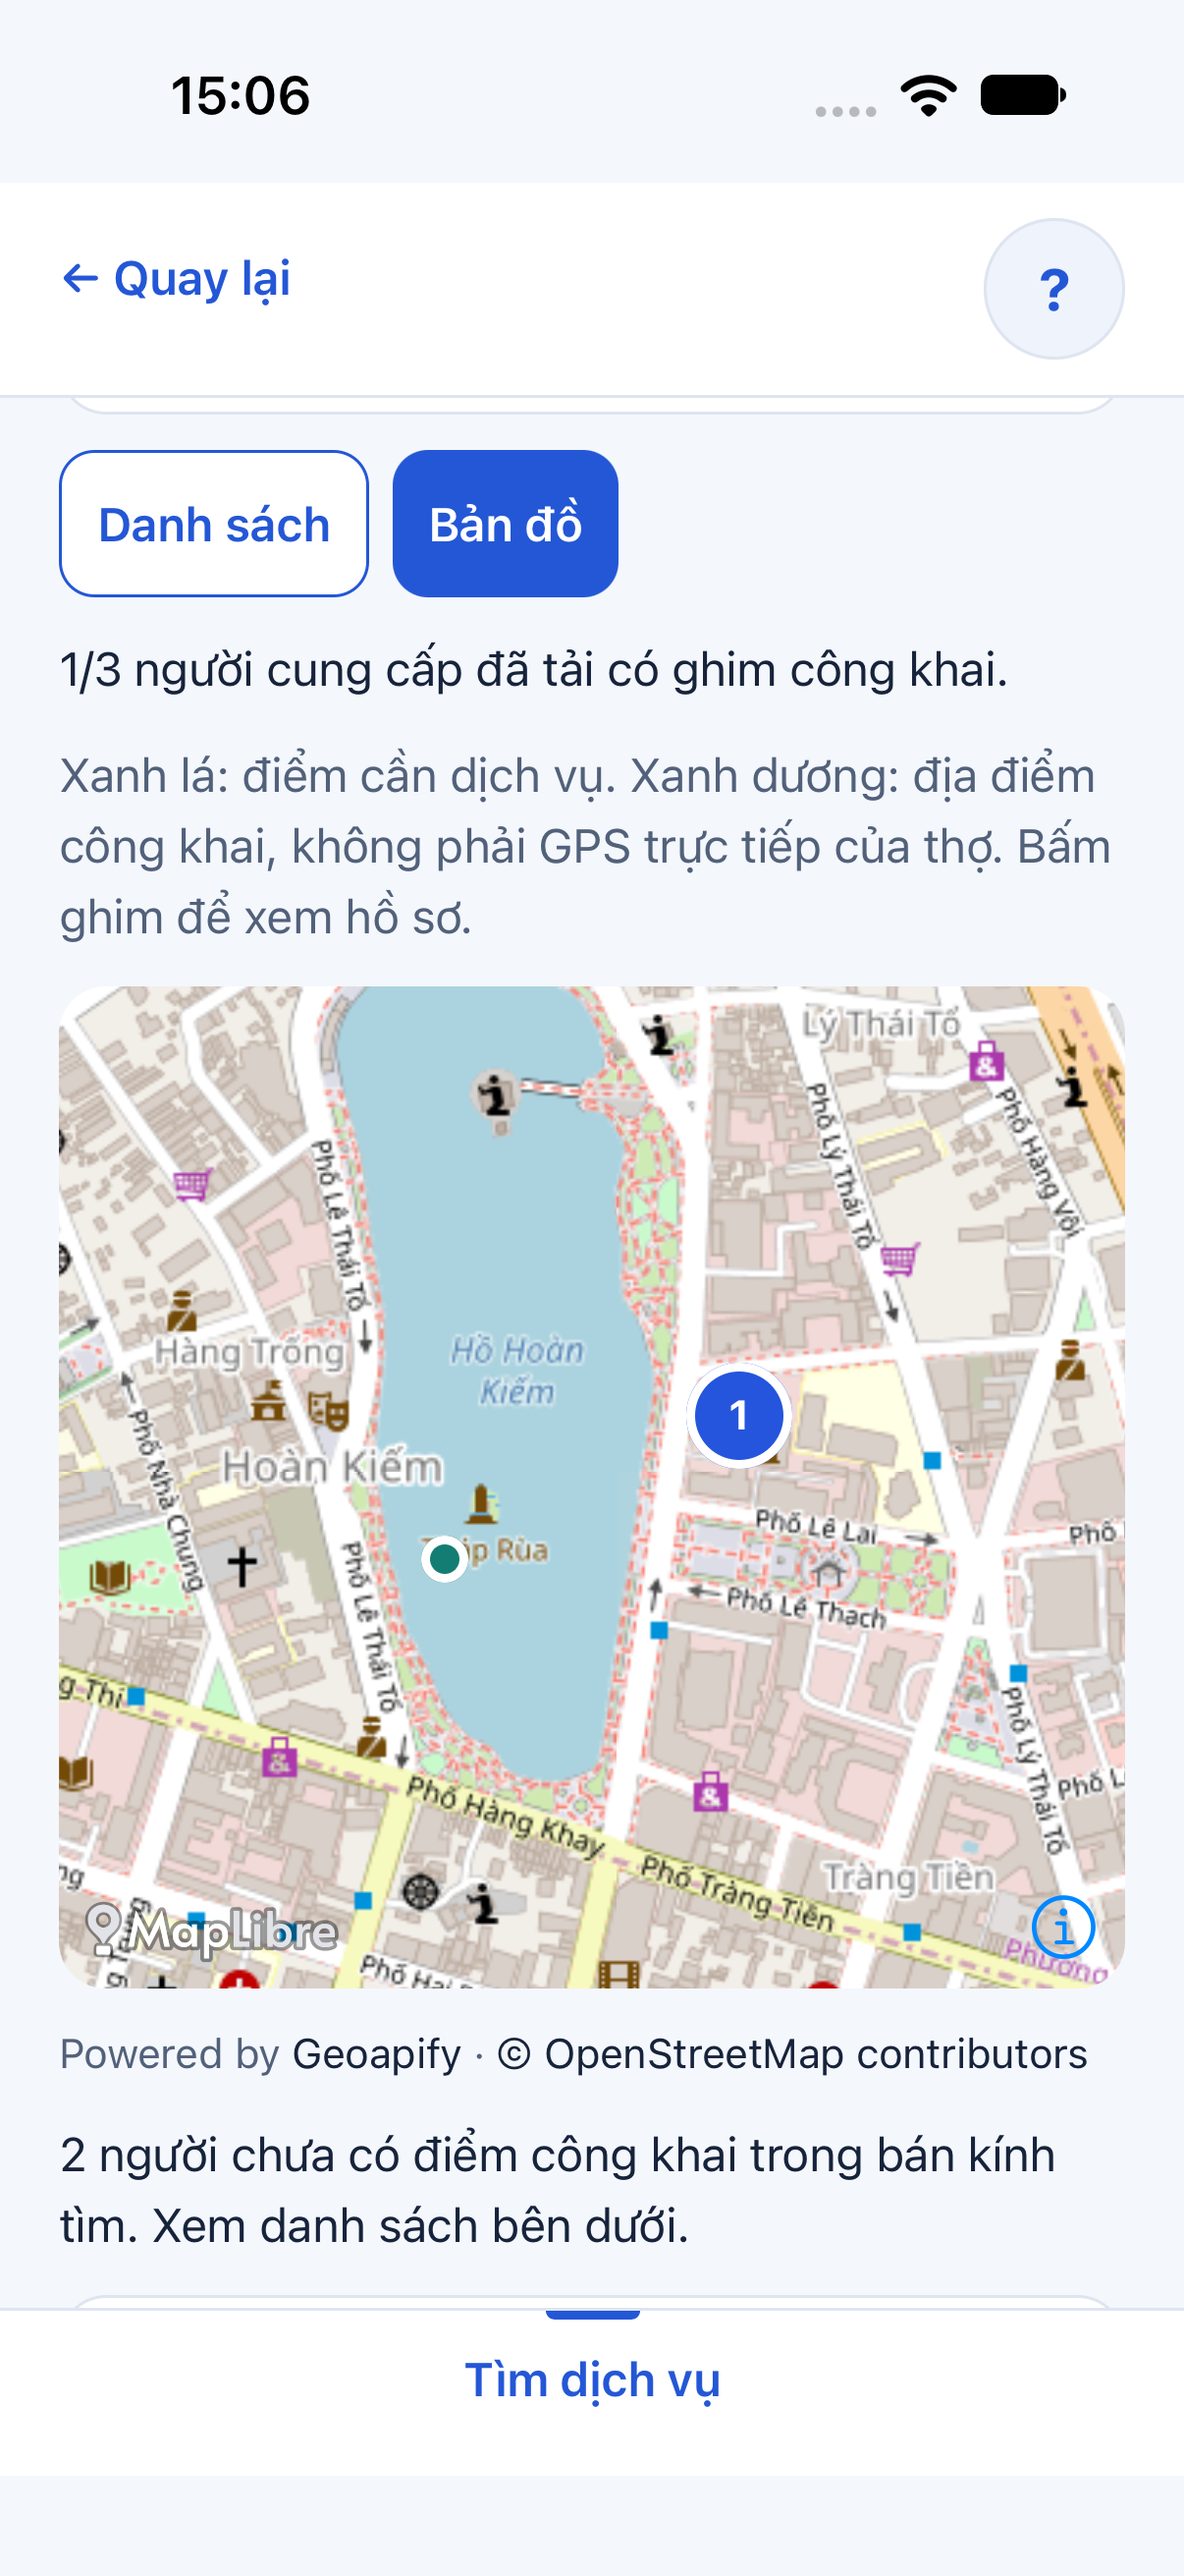
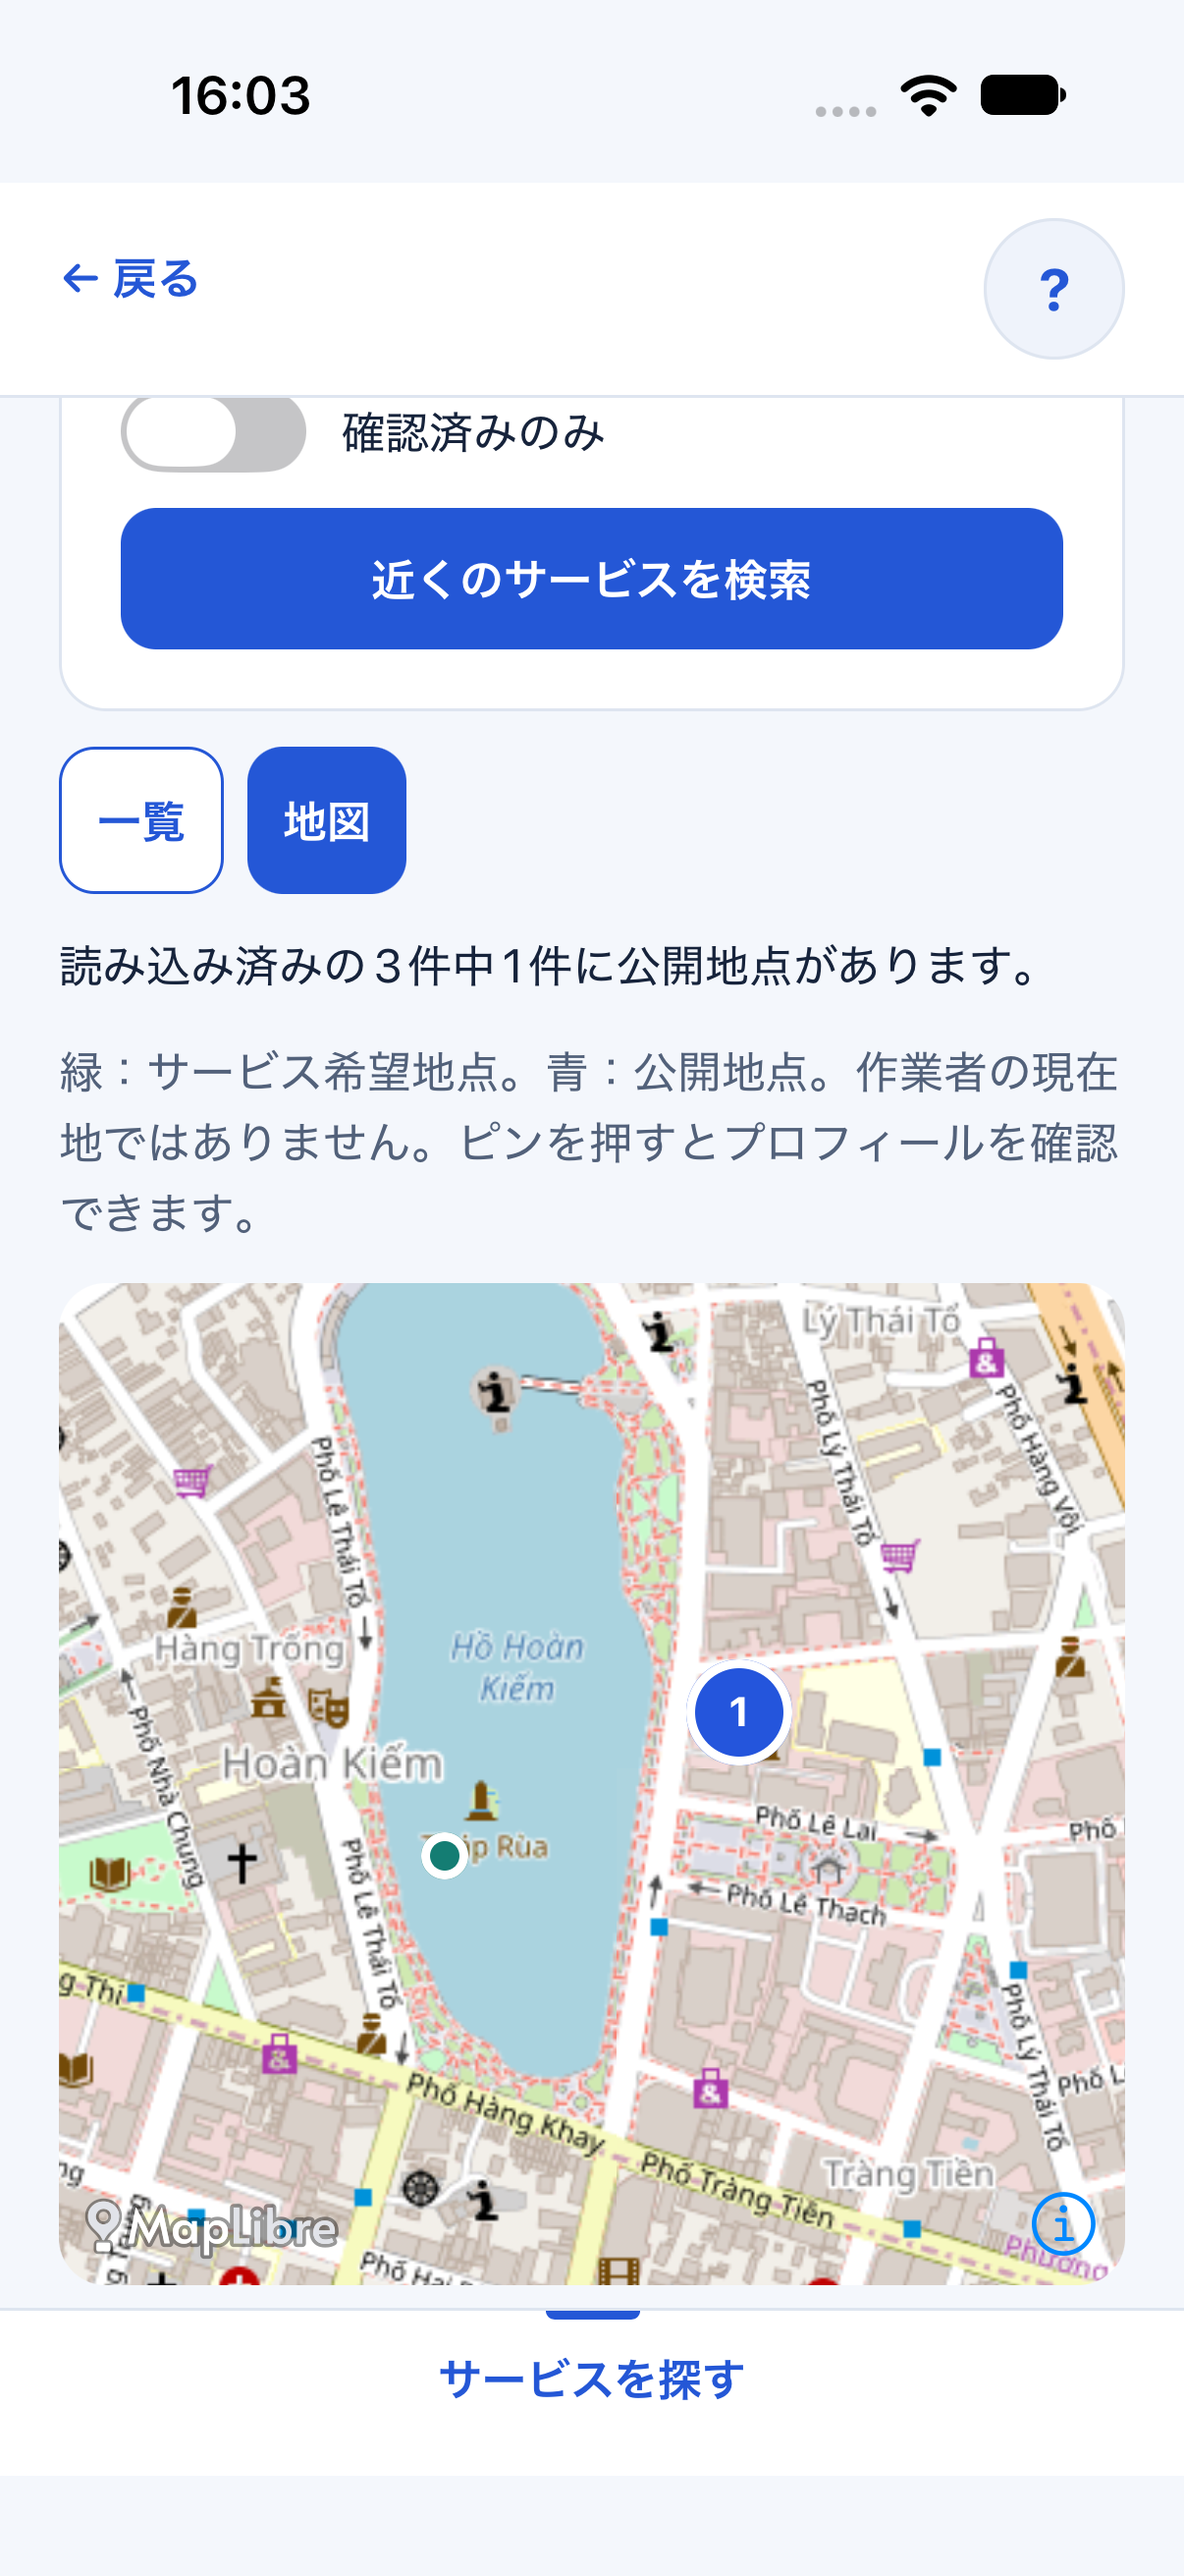
docs: record MAP-02 verification and refreshed iOS captures [skip ci]

diff --git a/docs/ke-hoach-trien-khai/bao-cao/B03-02-ban-do-ket-qua-tim-kiem.md b/docs/ke-hoach-trien-khai/bao-cao/B03-02-ban-do-ket-qua-tim-kiem.md
@@ -12,7 +12,7 @@ Nếu nhiều người cùng tọa độ, ghim ghi số người, chẳng hạn 
 
 ## Ảnh app chạy thật
 
-Ảnh ngày 07/10/2026 dùng dữ liệu DEMO, API/PostGIS cục bộ và bản đồ nền Geoapify thật. Web là Chromium; Android là emulator API 36; iOS là iPhone 18 Pro simulator iOS 27. Không phải ảnh thiết bị thật hoặc nghiệm thu UAT.
+Ảnh ngày 07/10/2026 dùng dữ liệu DEMO, API/PostGIS cục bộ và bản đồ nền Geoapify thật. Web là Chromium; Android là emulator API 36; iOS là iPhone 18 Pro simulator iOS 27. Ảnh iOS chụp lại lúc 16:03 JST với giao diện tiếng Nhật; tên và mô tả DEMO do người cung cấp nhập vẫn giữ tiếng Việt. Không phải ảnh thiết bị thật hoặc nghiệm thu UAT.
 
 | Web: bản đồ và ghim được chọn | Web: thẻ địa điểm và danh sách |
 |---|---|
@@ -89,21 +89,21 @@ Câu hỏi học code: Vì sao trả `null` mà không bỏ luôn hồ sơ? Vì 
 
 Kiểm thử tự động đã kiểm dữ liệu riêng/công khai, điểm gần nhất, ngoài bán kính, chuyển trạng thái public và lưu trữ điểm. Kiểm UI đã kiểm ghim trùng mở từng hồ sơ, giữ người không có điểm trong danh sách, đổi tọa độ xóa cũ, lỗi bản đồ và thử lại. Web dùng API/DB test thật, chỉ nền tile được giả lập trong E2E; lượt ảnh DEMO kiểm nền Geoapify thật riêng.
 
-Web, iOS simulator và Android emulator đã đi từ tìm → ghim → thẻ → hồ sơ. Android được kiểm lại thành công lúc 15:54 JST sau khi WebView của emulator tự cập nhật và đóng app ở lượt trước; lượt cuối còn đi qua nhập địa chỉ và chọn gợi ý Geoapify thật. Chưa nghiệm thu trên điện thoại thật hoặc UAT của chủ dự án. Gom ghim hiện chỉ xử lý tọa độ trùng tuyệt đối, chưa có gom cụm theo mức zoom.
+Web, iOS simulator và Android emulator đã đi từ tìm → ghim → thẻ → hồ sơ. iOS được kiểm lại lúc 16:03 JST sau bản sửa camera `8fdc9d4`: chuyển Danh sách/Bản đồ, chọn ghim và mở hồ sơ không còn cảnh báo React. Bài hồi quy camera kiểm Promise từ SDK không bị trả về làm hàm dọn dẹp của `useEffect`. Android được kiểm lại thành công lúc 15:54 JST sau khi WebView của emulator tự cập nhật và đóng app ở lượt trước; lượt cuối còn đi qua nhập địa chỉ và chọn gợi ý Geoapify thật. Chưa nghiệm thu trên điện thoại thật hoặc UAT của chủ dự án. Gom ghim hiện chỉ xử lý tọa độ trùng tuyệt đối, chưa có gom cụm theo mức zoom.
 
 <details>
 <summary>Lệnh, test và bằng chứng kỹ thuật</summary>
 
 | Kiểm tra | Kết quả ngày 07/10/2026 | Bằng chứng |
 |---|---|---|
-| Typecheck, lint | PASS | `.local/map-02/typecheck-final.log`, `lint-final.log` |
-| Mobile unit/UI + coverage | 152 test, 32 suite PASS; core lines 100%, branches 92.56%; app lines 82.81%, branches 76.76%; đạt gate repo | `.local/map-02/mobile-coverage-final.log` |
+| Typecheck, lint | PASS | `.local/map-02/typecheck-camera.log`, `lint-camera.log` |
+| Mobile unit/UI + coverage | 153 test, 33 suite PASS; core lines 100%, branches 92.56%; app lines 82.81%, branches 76.76%; đạt gate repo | `.local/map-02/mobile-camera-coverage.log`; [ResultsMap.native.test.tsx](../../../apps/mobile/src/features/search/components/ResultsMap.native.test.tsx) |
 | API unit/integration + PostGIS coverage | 68 test PASS; core lines 100%, branches 92.17%; app lines 90.98%, branches 88.20% | `.local/map-02/coverage.log`; [partners.test.ts](../../../services/api/test/integration/partners.test.ts) |
-| Web E2E MAP-02 | 1 hành trình PASS | [search-map.spec.mjs](../../../tests/e2e/web/search-map.spec.mjs), `.local/map-02/web.log` |
+| Web E2E MAP-02 | 1 hành trình PASS | [search-map.spec.mjs](../../../tests/e2e/web/search-map.spec.mjs), `.local/map-02/web-final.log` |
 | Web live + Geoapify | PASS ghim, thẻ, hồ sơ | `.local/map-02/live-web.log`, ảnh trên |
-| iOS simulator / Android emulator | Ghi đúng phạm vi ở đoạn trên; không thay thiết bị thật | Ảnh và thao tác Mobile MCP; Maestro Android không khởi động được driver, không tính PASS Maestro |
+| iOS simulator / Android emulator | Ghi đúng phạm vi ở đoạn trên; không thay thiết bị thật | Ảnh và thao tác Mobile MCP; Maestro Android không khởi động được driver; lượt Maestro iOS cuối dừng ở đối chiếu câu tiếng Việt khi app đang tiếng Nhật. Không tính PASS toàn hành trình Maestro; thao tác chọn ghim/hồ sơ kiểm lại bằng Mobile MCP |
 | MAP-01 đã push | `4dc7600`, cả ba job CI PASS | [CI MAP-01](https://github.com/anhthaingd/dich-vu-quanh-ban/actions/runs/37577265358) |
-| MAP-02 Git/CI | Chưa push tại thời điểm viết báo cáo; cập nhật sau khi xác nhận remote | Không dùng CI MAP-01 để kết luận MAP-02 |
+| MAP-02 Git/CI | Đã push `a6d4735` và sửa camera `8fdc9d4`; cả 3 job PASS: static/mobile/build, API/PostGIS, web E2E | [CI MAP-02](https://github.com/anhthaingd/dich-vu-quanh-ban/actions/runs/37584532165) kiểm code `8fdc9d45a95442b0145027411e13d30c739ed81f`; lần `37584240737` trước bị hủy khi push bản sửa. Bản cập nhật báo cáo/ảnh sau đó không đổi code và dùng `[skip ci]`. |
 
 Các log `.local` được bỏ qua bởi Git. Chạy lại bằng `npm run typecheck`, `npm run lint`, `npm run test:coverage` và `npx playwright test --config tests/e2e/web/playwright.config.mjs search-map.spec.mjs`. E2E tạo dữ liệu cô lập; không sửa hồ sơ DEMO sẵn có.
 

diff --git a/docs/ke-hoach-trien-khai/README.md b/docs/ke-hoach-trien-khai/README.md
@@ -1,7 +1,7 @@
 # Kế hoạch triển khai và học code
 
 
-**Cập nhật 07/10:** MAP-01 đã push `4dc7600`, [CI đạt cả 3 job](https://github.com/anhthaingd/dich-vu-quanh-ban/actions/runs/37577265358). **MAP-02 đã triển khai** theo quyết định chỉ ghim địa điểm công khai; người chưa có điểm công khai vẫn hiện danh sách. [Báo cáo B03-02](bao-cao/B03-02-ban-do-ket-qua-tim-kiem.md) ghi kiểm thử/ảnh và trạng thái push riêng. Thứ tự P0-1 → MAP-01 → MAP-02 → P0-2 → P0-3. Các mốc chưa tích hợp bản đồ phía dưới là lịch sử, không thay trạng thái này.
+**Cập nhật 07/10:** MAP-01 đã push `4dc7600`, [CI đạt cả 3 job](https://github.com/anhthaingd/dich-vu-quanh-ban/actions/runs/37577265358). **MAP-02 đã push `a6d4735` và bản sửa camera `8fdc9d4`; [CI MAP-02](https://github.com/anhthaingd/dich-vu-quanh-ban/actions/runs/37584532165) đạt cả 3 job** theo quyết định chỉ ghim địa điểm công khai; người chưa có điểm công khai vẫn hiện danh sách. [Báo cáo B03-02](bao-cao/B03-02-ban-do-ket-qua-tim-kiem.md) ghi kiểm thử/ảnh và trạng thái push riêng. Thứ tự P0-1 → MAP-01 → MAP-02 → P0-2 → P0-3. Các mốc chưa tích hợp bản đồ phía dưới là lịch sử, không thay trạng thái này.
 DOC-082 · v1.0 · 01/10/2026 · DELIVERY-01. Mốc lập kế hoạch: `50d184a`; ưu tiên hiện hành: MAP-01 chọn địa điểm bằng địa chỉ/bản đồ trước P0-2, ngày 07/10/2026.
 
 Đây là điểm vào công việc cho các phiên Codex tiếp theo. Kế hoạch phân rã thiết kế sẵn có thành các lát triển khai có thể kiểm chứng; không thay SRS, hợp đồng API hoặc quyết định nghiệp vụ. Những nhiệm vụ chưa làm là kế hoạch, không phải phê duyệt nhà cung cấp, chi phí hay production.
@@ -37,7 +37,7 @@ Sơ đồ Mermaid nằm ngay trong từng file `.md`. Mở báo cáo bằng Mark
 | Thu hồi nhiều phiên và quay lại sau login | [B01-04/07 — bổ sung](bao-cao/B01-07-tiep-tuc-tai-khoan-va-thu-hoi-phien.md) | Dùng API hiện có, thử lại phần chưa xác nhận, quay lại ba màn tài khoản; đạt 124 mobile, 8 web và native Android/iOS; đã push `a823d0e`; [CI 37428334396](https://github.com/anhthaingd/dich-vu-quanh-ban/actions/runs/37428334396) đạt cả 3 jobs, chưa UAT |
 | Người cung cấp và tìm dịch vụ | [B02-03 / P0-1](bao-cao/B02-03-nguon-cung-va-tim-dich-vu.md) | Gói P0-1 DB/API/app; local/native; DEMO riêng; đã push `fe35564`, [CI](https://github.com/anhthaingd/dich-vu-quanh-ban/actions/runs/37566935703) đạt 3 jobs; chưa UAT; B02/B03 còn upload/map/xác minh/ranking |
 | Chọn địa điểm và bản đồ | [B03-01 / MAP-01](bao-cao/B03-01-chon-dia-diem-va-ban-do.md) | Bộ chọn 4 nơi; API/web/local; bản đồ thật Android emulator/iOS simulator. Remote CI MAP-01 đạt; chưa điện thoại thật hoặc UAT; chưa đóng toàn B03 |
-| Bản đồ kết quả tìm kiếm | [B03-02 / MAP-02](bao-cao/B03-02-ban-do-ket-qua-tim-kiem.md) | Ghim địa điểm public, ghim trùng, hồ sơ; giữ người không có ghim trong danh sách. 152 mobile, 68 API và web E2E đạt; xem báo cáo cho native và Git/CI. |
+| Bản đồ kết quả tìm kiếm | [B03-02 / MAP-02](bao-cao/B03-02-ban-do-ket-qua-tim-kiem.md) | Ghim địa điểm public, ghim trùng, hồ sơ; giữ người không có ghim trong danh sách. 153 mobile, 68 API và web E2E đạt; native Android/iOS đã kiểm; [CI MAP-02](https://github.com/anhthaingd/dich-vu-quanh-ban/actions/runs/37584532165) đạt cả 3 job tại `8fdc9d4`. Chưa UAT/thiết bị thật. |
 | Tài khoản email/mật khẩu | [B01-01](bao-cao/B01-01-email-mat-khau.md) | Đăng ký/đăng nhập, refresh/logout local; không đóng toàn bộ B01 |
 
 Báo cáo con tiếp theo dùng mã `Bxx-nn` hoặc `I18N-nn`; thêm vào bảng này và liên kết dòng checklist. Không sửa báo cáo cũ để biến kết quả của commit cũ thành bằng chứng cho commit mới. Nếu sửa báo cáo, giữ ngày/commit và ghi phần đính chính.

diff --git a/docs/ke-hoach-trien-khai/01-checklist.md b/docs/ke-hoach-trien-khai/01-checklist.md
@@ -1,7 +1,7 @@
 # Checklist chức năng và bằng chứng
 
 
-**Cập nhật 07/10:** MAP-01 đã push `4dc7600`, [CI đạt cả 3 job](https://github.com/anhthaingd/dich-vu-quanh-ban/actions/runs/37577265358). **MAP-02 đã triển khai** theo quyết định chỉ ghim địa điểm công khai; người chưa có điểm công khai vẫn hiện danh sách. [Báo cáo B03-02](bao-cao/B03-02-ban-do-ket-qua-tim-kiem.md) ghi kiểm thử/ảnh và trạng thái push riêng. Thứ tự P0-1 → MAP-01 → MAP-02 → P0-2 → P0-3. Các mốc chưa tích hợp bản đồ phía dưới là lịch sử, không thay trạng thái này.
+**Cập nhật 07/10:** MAP-01 đã push `4dc7600`, [CI đạt cả 3 job](https://github.com/anhthaingd/dich-vu-quanh-ban/actions/runs/37577265358). **MAP-02 đã push `a6d4735` và bản sửa camera `8fdc9d4`; [CI MAP-02](https://github.com/anhthaingd/dich-vu-quanh-ban/actions/runs/37584532165) đạt cả 3 job** theo quyết định chỉ ghim địa điểm công khai; người chưa có điểm công khai vẫn hiện danh sách. [Báo cáo B03-02](bao-cao/B03-02-ban-do-ket-qua-tim-kiem.md) ghi kiểm thử/ảnh và trạng thái push riêng. Thứ tự P0-1 → MAP-01 → MAP-02 → P0-2 → P0-3. Các mốc chưa tích hợp bản đồ phía dưới là lịch sử, không thay trạng thái này.
 DOC-083 · v1.0 · 01/10/2026 · DELIVERY-01. Baseline code `50d184a`. [Mục lục](README.md).
 
 ## Quy ước
@@ -221,8 +221,8 @@ Ghi mã lát, trạng thái, commit, kết quả kiểm, báo cáo và phần th
 
 - [x] Quyết định public-only; API `map_location` Address/null, giữ ranking/cursor/quyền.
 - [x] Danh sách/bản đồ, ghim trùng mở từng hồ sơ, thiếu ghim vẫn hiện danh sách; lỗi map/thử lại; VI/EN/JA.
-- [x] Typecheck/lint, 152 mobile và 68 API, coverage gate; E2E web và web live.
+- [x] Typecheck/lint, 153 mobile và 68 API, coverage gate; E2E web và web live.
 - [x] Ảnh bản đồ/thẻ ghim trên Android emulator và iOS simulator; iOS mở hồ sơ đạt. Xem [B03-02](bao-cao/B03-02-ban-do-ket-qua-tim-kiem.md).
 - [x] Android kiểm lại đạt nhập địa chỉ → tìm → ghim → mở hồ sơ, sau gián đoạn emulator; có ảnh hồ sơ.
-- [ ] Commit/push và remote CI MAP-02.
+- [x] Commit/push `a6d4735`, sửa camera `8fdc9d4`; [CI MAP-02](https://github.com/anhthaingd/dich-vu-quanh-ban/actions/runs/37584532165) đạt static/mobile/build, API/PostGIS và web E2E. Báo cáo/ảnh cập nhật riêng, không thay code đã kiểm.
 - [ ] Thiết bị thật, UAT; chưa billing/production.
